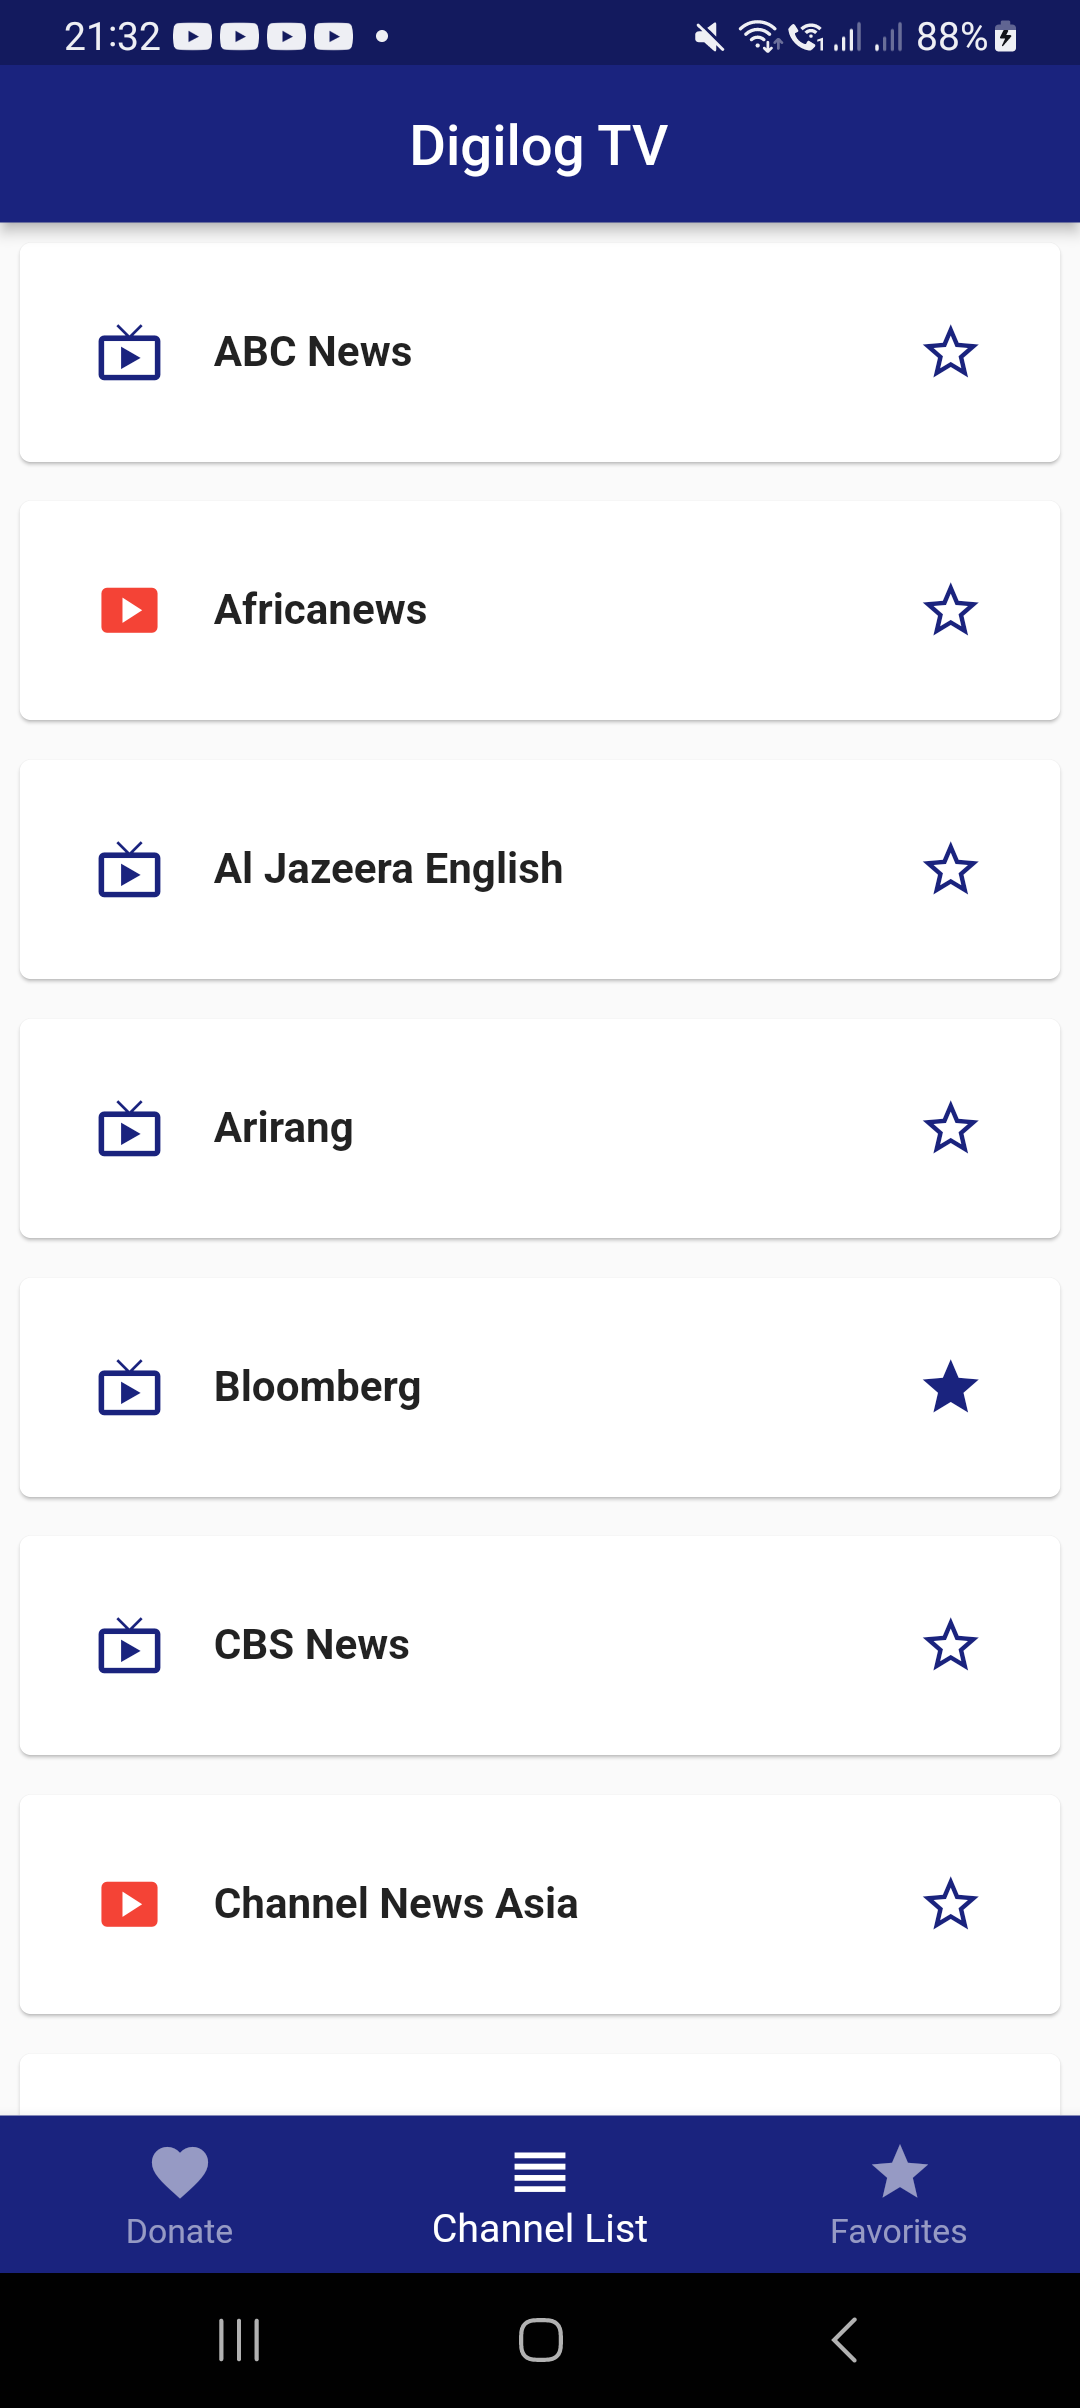
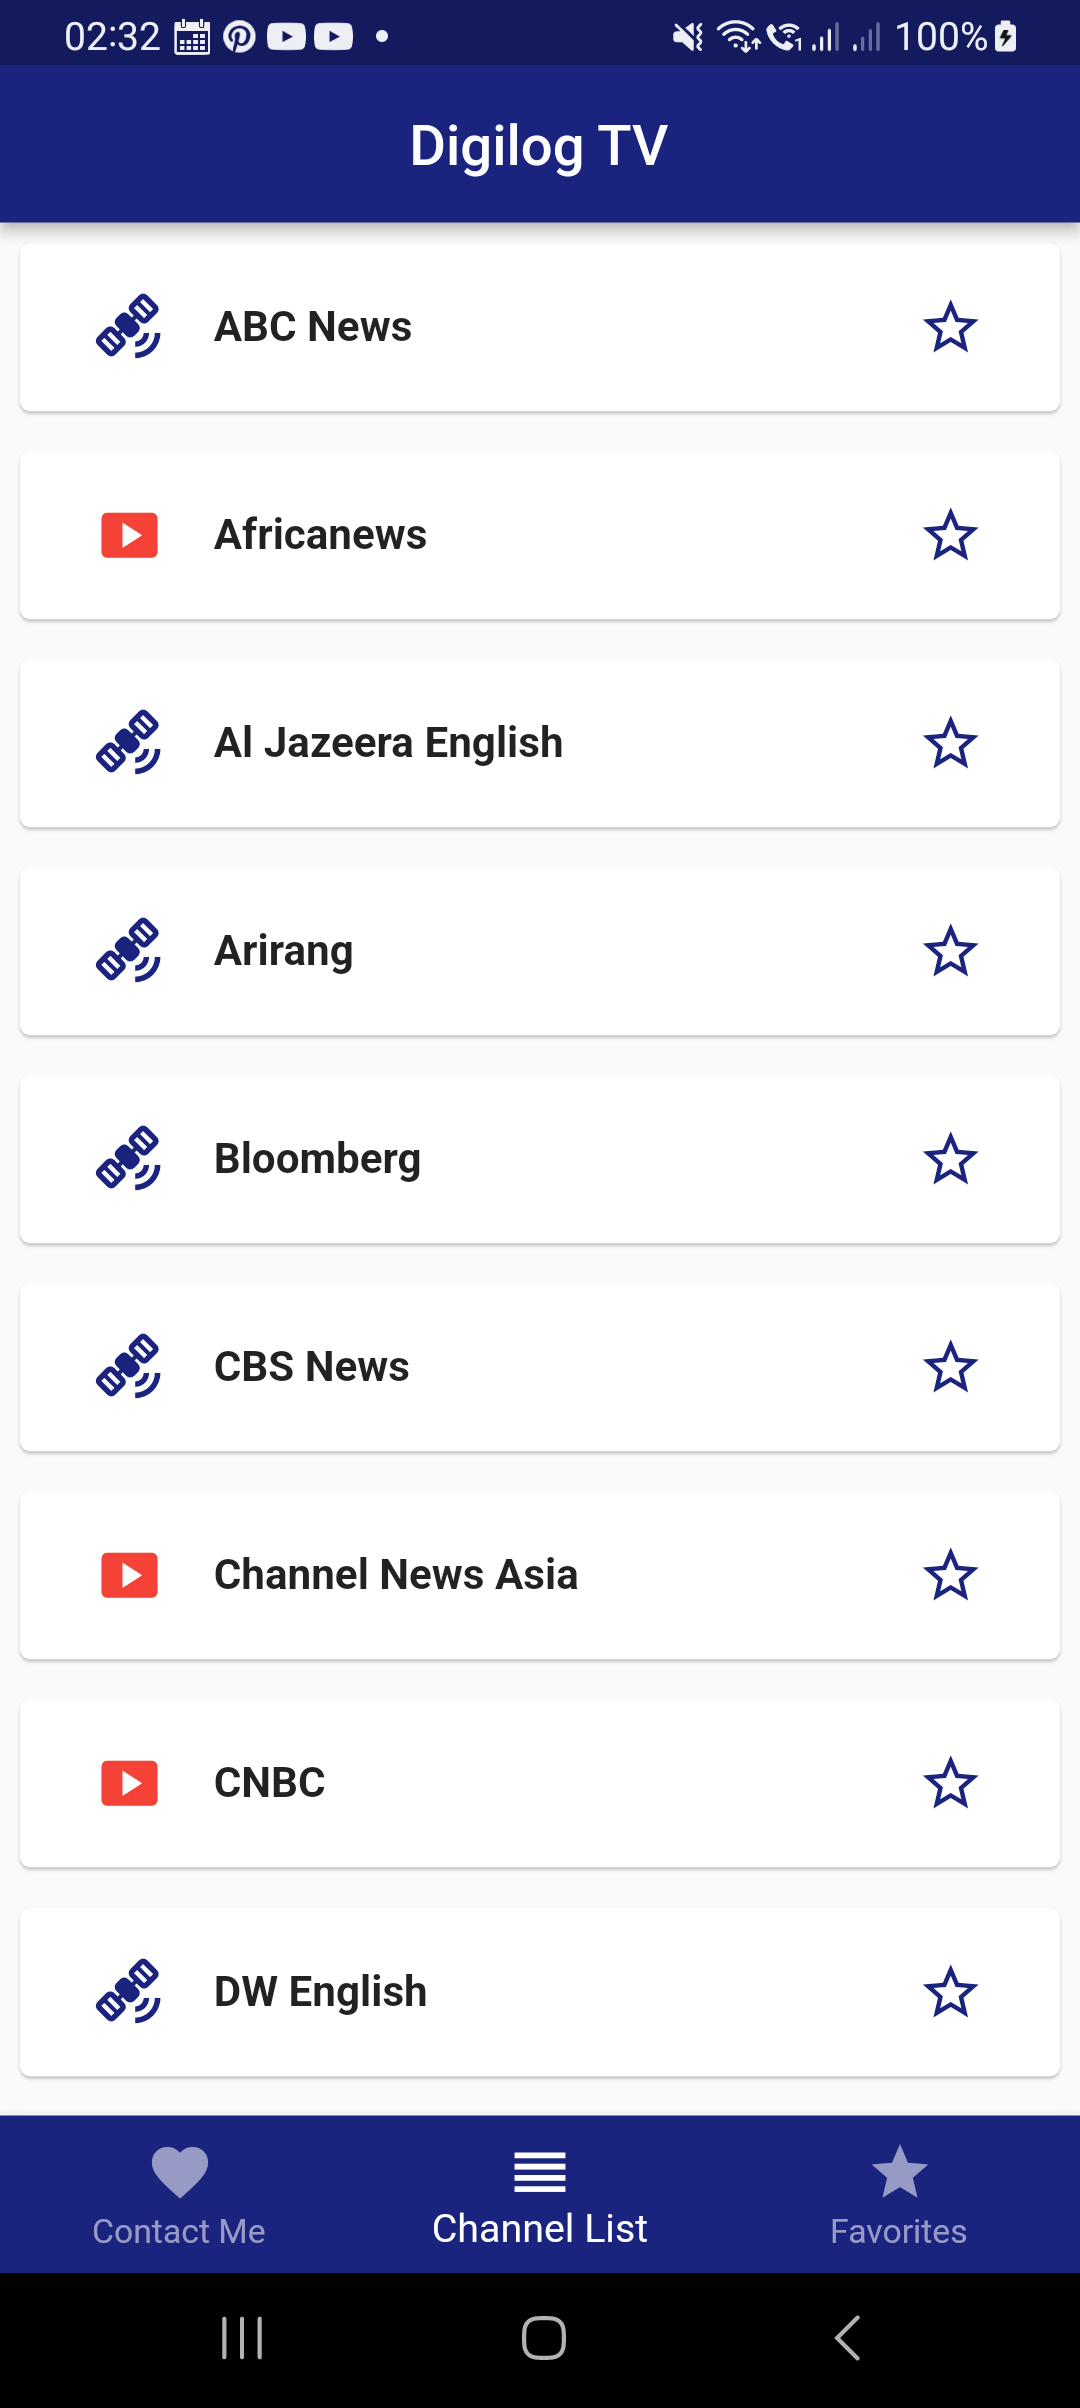
improved UI, added TV news websites to comply with Google Play requirements

diff --git a/lib/services/channels.dart b/lib/services/channels.dart
@@ -4,11 +4,12 @@ enum Source {
 }
 
 class Channel {
-  Channel({required this.channelName, required this.link, required this.source});
+  Channel({required this.channelName, required this.link, required this.source, required this.contactpage});
 
   String channelName;
   String link;
   Source source;
+  String contactpage;
 
   String getChannelName() {
     return channelName;
@@ -39,24 +40,24 @@ class Channels {
   }
 
   List<Channel> channelList = [
-    Channel(channelName: "ABC News", link: "https://abc-iview-mediapackagestreams-2.akamaized.net/out/v1/6e1cc6d25ec0480ea099a5399d73bc4b/index.m3u8", source: Source.iptv),
-    Channel(channelName: "Africanews", link: "https://www.youtube.com/embed/NQjabLGdP5g?autoplay=1", source: Source.youtube),
-    Channel(channelName: "Al Jazeera English", link: "https://live-hls-web-aje.getaj.net/AJE/index.m3u8", source: Source.iptv),
-    Channel(channelName: "Arirang", link: "http://amdlive.ctnd.com.edgesuite.net/arirang_1ch/smil:arirang_1ch.smil/playlist.m3u8", source: Source.iptv),
-    Channel(channelName: "Bloomberg", link: "https://bloomberg.com/media-manifest/streams/us.m3u8", source: Source.iptv),
-    Channel(channelName: "CBS News", link: "https://cbsnews.akamaized.net/hls/live/2020607/cbsnlineup_8/master.m3u8", source: Source.iptv),
-    Channel(channelName: "Channel News Asia", link: "https://www.youtube.com/embed/XWq5kBlakcQ?autoplay=1", source: Source.youtube),
-    Channel(channelName: "CNBC", link: "https://www.youtube.com/embed/9NyxcX3rhQs?autoplay=1", source: Source.youtube),
-    Channel(channelName: "DW English", link: "https://dwamdstream102.akamaized.net/hls/live/2015525/dwstream102/index.m3u8", source: Source.iptv),
-    Channel(channelName: "Euronews", link: "https://www.youtube.com/embed/pykpO5kQJ98?autoplay=1", source: Source.youtube),
-    Channel(channelName: "France 24 English", link: "https://www.youtube.com/embed/h3MuIUNCCzI?autoplay=1", source: Source.youtube),
-    Channel(channelName: "Global News", link: "https://i.mjh.nz/PlutoTV/62cbef9ebb857100072fc187-alt.m3u8", source: Source.iptv),
-    Channel(channelName: "Newsmax TV", link: "https://nmxlive.akamaized.net/hls/live/529965/Live_1/index.m3u8", source: Source.iptv),
-    Channel(channelName: "NHK World Japan", link: "https://nhkwlive-ojp.akamaized.net/hls/live/2003459/nhkwlive-ojp-en/index_4M.m3u8", source: Source.iptv),
-    Channel(channelName: "PBS America", link: "https://pbs-samsunguk.amagi.tv/playlist.m3u8", source: Source.iptv),
-    Channel(channelName: "Press TV", link: "https://cdnlive.presstv.ir/cdnlive/smil:cdnlive.smil/playlist.m3u8", source: Source.iptv),
-    Channel(channelName: "Reuters TV", link: "https://reuters-reutersnow-1-eu.rakuten.wurl.tv/playlist.m3u8", source: Source.iptv),
-    Channel(channelName: "Sky News", link: "https://i.mjh.nz/PlutoTV/55b285cd2665de274553d66f-alt.m3u8", source: Source.iptv),
-    Channel(channelName: "TRT World", link: "https://tv-trtworld.medya.trt.com.tr/master.m3u8", source: Source.iptv),
+    Channel(channelName: "ABC News", link: "https://abc-iview-mediapackagestreams-2.akamaized.net/out/v1/6e1cc6d25ec0480ea099a5399d73bc4b/index.m3u8", source: Source.iptv, contactpage: 'https://abcnews.go.com/Contact'),
+    Channel(channelName: "Africanews", link: "https://www.youtube.com/embed/NQjabLGdP5g?autoplay=1", source: Source.youtube, contactpage: 'https://www.africanews.com/page/contact/'),
+    Channel(channelName: "Al Jazeera English", link: "https://live-hls-web-aje.getaj.net/AJE/index.m3u8", source: Source.iptv, contactpage: 'https://network.aljazeera.net/en/contact'),
+    Channel(channelName: "Arirang", link: "http://amdlive.ctnd.com.edgesuite.net/arirang_1ch/smil:arirang_1ch.smil/playlist.m3u8", source: Source.iptv, contactpage: 'https://www.arirang.com/'),
+    Channel(channelName: "Bloomberg", link: "https://bloomberg.com/media-manifest/streams/us.m3u8", source: Source.iptv, contactpage: 'https://www.bloomberg.com/professional/support/'),
+    Channel(channelName: "CBS News", link: "https://cbsnews.akamaized.net/hls/live/2020607/cbsnlineup_8/master.m3u8", source: Source.iptv, contactpage: 'https://www.cbs.com/showfeedback/'),
+    Channel(channelName: "Channel News Asia", link: "https://www.youtube.com/embed/XWq5kBlakcQ?autoplay=1", source: Source.youtube, contactpage: 'https://www.channelnewsasia.com/contact-us'),
+    Channel(channelName: "CNBC", link: "https://www.youtube.com/embed/9NyxcX3rhQs?autoplay=1", source: Source.youtube, contactpage: 'https://help.cnbc.com/contact/'),
+    Channel(channelName: "DW English", link: "https://dwamdstream102.akamaized.net/hls/live/2015525/dwstream102/index.m3u8", source: Source.iptv, contactpage: 'https://corporate.dw.com/en/contact/s-30606'),
+    Channel(channelName: "Euronews", link: "https://www.youtube.com/embed/pykpO5kQJ98?autoplay=1", source: Source.youtube, contactpage: 'https://www.euronews.com/contact'),
+    Channel(channelName: "France 24 English", link: "https://www.youtube.com/embed/h3MuIUNCCzI?autoplay=1", source: Source.youtube, contactpage: 'https://www.francemediasmonde.com/en/contact'),
+    Channel(channelName: "Global News", link: "https://i.mjh.nz/PlutoTV/62cbef9ebb857100072fc187-alt.m3u8", source: Source.iptv, contactpage: 'https://globalnews.ca/pages/contact-us/'),
+    Channel(channelName: "Newsmax TV", link: "https://nmxlive.akamaized.net/hls/live/529965/Live_1/index.m3u8", source: Source.iptv, contactpage: 'https://www.newsmax.com/contact/'),
+    Channel(channelName: "NHK World Japan", link: "https://nhkwlive-ojp.akamaized.net/hls/live/2003459/nhkwlive-ojp-en/index_4M.m3u8", source: Source.iptv, contactpage: 'https://www3.nhk.or.jp/nhkworld/en/contact/'),
+    Channel(channelName: "PBS America", link: "https://pbs-samsunguk.amagi.tv/playlist.m3u8", source: Source.iptv, contactpage: 'https://www.pbsamerica.co.uk/contact/'),
+    Channel(channelName: "Press TV", link: "https://cdnlive.presstv.ir/cdnlive/smil:cdnlive.smil/playlist.m3u8", source: Source.iptv, contactpage: 'https://www.presstv.ir/aboutus/contactus'),
+    Channel(channelName: "Reuters TV", link: "https://reuters-reutersnow-1-eu.rakuten.wurl.tv/playlist.m3u8", source: Source.iptv, contactpage: 'https://www.reuters.com/info-pages/contact-us/'),
+    Channel(channelName: "Sky News", link: "https://i.mjh.nz/PlutoTV/55b285cd2665de274553d66f-alt.m3u8", source: Source.iptv, contactpage: 'https://news.sky.com/info/contact-us'),
+    Channel(channelName: "TRT World", link: "https://tv-trtworld.medya.trt.com.tr/master.m3u8", source: Source.iptv, contactpage: 'https://www.trtworld.com/contact'),
   ];
 }

diff --git a/lib/pages/home pages/contactpage.dart b/lib/pages/home pages/contactpage.dart
@@ -1,0 +1,123 @@
+import 'package:flutter/material.dart';
+import 'package:flutter/services.dart';
+
+class ContactPage extends StatelessWidget {
+  const ContactPage({super.key});
+
+  copyBitcoinAddress(BuildContext context) {
+    Clipboard.setData(const ClipboardData(
+        text: 'bc1qruus6vnxrww6pqac3hvg6vsepmqv8d66dwjm59'));
+    ScaffoldMessenger.of(context).showSnackBar(const SnackBar(
+      content: Text("Bitcoin Address copied to clipboard."),
+      duration: Duration(seconds: 2),
+    ));
+  }
+
+  copyMoneroAddress(BuildContext context) {
+    Clipboard.setData(const ClipboardData(
+        text:
[1 lines of base64/hex data omitted]
+    ScaffoldMessenger.of(context).showSnackBar(const SnackBar(
+      content: Text("Monero Address copied to clipboard."),
+      duration: Duration(seconds: 2),
+    ));
+  }
+
+  @override
+  Widget build(BuildContext context) {
+    return SingleChildScrollView(
+      child: Column(
+        crossAxisAlignment: CrossAxisAlignment.stretch,
+        children: [
+          const Padding(
+            padding: EdgeInsets.fromLTRB(18.0, 36.0, 18.0, 18.0),
+            child: Text(
+              'You can reach me at aldrinzigmund@tutamail.com',
+              style: TextStyle(fontSize: 18.0, fontWeight: FontWeight.bold),
+              textAlign: TextAlign.center,
+            ),
+          ),
+          const Padding(
+            padding: EdgeInsets.all(18.0),
+            child: Text(
+              'Due to the added workload of maintaining this app on the Google Play Store – where they recently required me to include the websites of each TV news channel, although I personally think it\'s not necessary as I trust my users\' ability to distinguish quality news from bad ones, and find the contact information of these TV news networks easily via a simple web search – and the rejection of my recent app update that was intended to promptly resolve a screen timeout issue during video playback till I comply with the said requirement, I\'m now considering the possibility of introducing ads for users who download my app from Google Play as a means of compensating for my efforts in enhancing the overall user experience.',
+              style: TextStyle(fontSize: 18.0),
+              textAlign: TextAlign.center,
+            ),
+          ),
+          SizedBox(
+            height: (MediaQuery.of(context).size.height -
+                kBottomNavigationBarHeight -
+                AppBar().preferredSize.height),
+            child: Column(
+              mainAxisAlignment: MainAxisAlignment.center,
+              children: [
+                const Padding(
+                    padding: EdgeInsets.fromLTRB(9.0, 27.0, 9.0, 18.0),
+                    child: Text(
+                      'Donate Bitcoin to Help Me Maintain this App',
+                      style: TextStyle(fontSize: 27.0),
+                      textAlign: TextAlign.center,
+                    )),
+                Padding(
+                    padding: const EdgeInsets.symmetric(
+                        horizontal: 9.0, vertical: 18.0),
+                    child: GestureDetector(
+                      onTap: () => copyBitcoinAddress(context),
+                      child: Image.asset(
+                        'assets/images/bitcoin.png',
+                        height: 300.0,
+                        width: 300.0,
+                        fit: BoxFit.contain,
+                      ),
+                    )),
+                const Padding(
+                    padding: EdgeInsets.all(18.0),
+                    child: Text(
+                      'Tap the QR Code to Copy the Bitcoin Address to your Clipboard',
+                      style: TextStyle(fontSize: 15.0),
+                      textAlign: TextAlign.center,
+                    )),
+              ],
+            ),
+          ),
+          SizedBox(
+            height: (MediaQuery.of(context).size.height -
+                kBottomNavigationBarHeight -
+                AppBar().preferredSize.height),
+            child: Column(
+              mainAxisAlignment: MainAxisAlignment.center,
+              children: [
+                const Padding(
+                    padding: EdgeInsets.fromLTRB(9.0, 27.0, 9.0, 18.0),
+                    child: Text(
+                      'Donate Monero to Help Me Maintain this App',
+                      style: TextStyle(fontSize: 27.0),
+                      textAlign: TextAlign.center,
+                    )),
+                Padding(
+                    padding: const EdgeInsets.all(9.0),
+                    child: GestureDetector(
+                      onTap: () => copyMoneroAddress(context),
+                      child: Image.asset(
+                        'assets/images/monero.png',
+                        height: 300.0,
+                        width: 300.0,
+                        fit: BoxFit.contain,
+                      ),
+                    )),
+                const Padding(
+                    padding: EdgeInsets.all(18.0),
+                    child: Text(
+                      'Tap the QR Codes to Copy the Monero Address to your Clipboard',
+                      style: TextStyle(fontSize: 15.0),
+                      textAlign: TextAlign.center,
+                    )),
+              ],
+            ),
+          ),
+        ],
+      ),
+    );
+  }
+}

diff --git a/lib/services/storage.g.dart b/lib/services/storage.g.dart
@@ -9,6 +9,22 @@ part of 'storage.dart';
 // ignore_for_file: non_constant_identifier_names, unnecessary_brace_in_string_interps, unnecessary_lambdas, prefer_expression_function_bodies, lines_longer_than_80_chars, avoid_as, avoid_annotating_with_dynamic, no_leading_underscores_for_local_identifiers
 
 mixin _$StorageProvider on _StorageProvider, Store {
+  late final _$arrangedChannelListAtom =
+      Atom(name: '_StorageProvider.arrangedChannelList', context: context);
+
+  @override
+  List<Channel> get arrangedChannelList {
+    _$arrangedChannelListAtom.reportRead();
+    return super.arrangedChannelList;
+  }
+
+  @override
+  set arrangedChannelList(List<Channel> value) {
+    _$arrangedChannelListAtom.reportWrite(value, super.arrangedChannelList, () {
+      super.arrangedChannelList = value;
+    });
+  }
+
   late final _$favoritedChannelsAtom =
       Atom(name: '_StorageProvider.favoritedChannels', context: context);
 
@@ -33,9 +49,32 @@ mixin _$StorageProvider on _StorageProvider, Store {
     return _$initializeAsyncAction.run(() => super.initialize());
   }
 
+  late final _$saveChangesAsyncAction =
+      AsyncAction('_StorageProvider.saveChanges', context: context);
+
+  @override
+  Future saveChanges() {
+    return _$saveChangesAsyncAction.run(() => super.saveChanges());
+  }
+
+  late final _$_StorageProviderActionController =
+      ActionController(name: '_StorageProvider', context: context);
+
+  @override
+  dynamic initializeFavorites() {
+    final _$actionInfo = _$_StorageProviderActionController.startAction(
+        name: '_StorageProvider.initializeFavorites');
+    try {
+      return super.initializeFavorites();
+    } finally {
+      _$_StorageProviderActionController.endAction(_$actionInfo);
+    }
+  }
+
   @override
   String toString() {
     return '''
+arrangedChannelList: ${arrangedChannelList},
 favoritedChannels: ${favoritedChannels}
     ''';
   }

diff --git a/lib/pages/homepage.dart b/lib/pages/homepage.dart
@@ -4,7 +4,7 @@ import 'package:flutter/material.dart';
 import 'package:digilogtv/services/storage.dart';
 import 'package:digilogtv/pages/home pages/channellistpage.dart';
 import 'package:digilogtv/pages/home pages/favoritespage.dart';
-import 'package:digilogtv/pages/home pages/donationpage.dart';
+import 'package:digilogtv/pages/home%20pages/contactpage.dart';
 
 class HomePage extends StatefulWidget {
   const HomePage({super.key, required this.storage, required this.formattingProvider,});
@@ -36,7 +36,7 @@ class _HomePageState extends State<HomePage> {
   void initState() {
     super.initState();
     _pages = <Widget>[
-      const DonationPage(),
+      const ContactPage(),
       ChannelListPage(storage: storage, formattingProvider: formattingProvider,),
       FavoritesPage(storage: storage, formattingProvider: formattingProvider,),
     ];
@@ -61,7 +61,7 @@ class _HomePageState extends State<HomePage> {
           items: const [
             BottomNavigationBarItem(
               icon: Icon(Icons.favorite),
-              label: 'Donate',
+              label: 'Contact Me',
             ),
             BottomNavigationBarItem(
               icon: Icon(Icons.reorder),

diff --git a/lib/pages/channelpage-iptv.dart b/lib/pages/channelpage-iptv.dart
@@ -93,11 +93,11 @@ class _ChannelPageIPTVState extends State<ChannelPageIPTV> {
         ),
         bottomNavigationBar:
             (MediaQuery.of(context).orientation == Orientation.portrait)
-                ? const Padding(
-                    padding: EdgeInsets.all(27.0),
+                ? Padding(
+                    padding: const EdgeInsets.all(27.0),
                     child: Text(
-                      'Tap the video for full screen viewing', textAlign: TextAlign.center,
-                      style: TextStyle(color: Colors.white),
+                      'Tap the video for full screen viewing. \n \n To get in touch with this news channel, visit their website at: ${storage.channels.channelList[index].contactpage}', textAlign: TextAlign.center,
+                      style: const TextStyle(color: Colors.white),
                     ),
                   )
                 : null);

diff --git a/lib/pages/home pages/favoritespage.dart b/lib/pages/home pages/favoritespage.dart
@@ -84,8 +84,7 @@ class _FavoritesPageState extends State<FavoritesPage> {
                         onTap: () => goToChannel(index),
                         child: Card(
                             child: Padding(
-                          padding: const EdgeInsets.symmetric(
-                              vertical: 27.0, horizontal: 18.0),
+                          padding: const EdgeInsets.all(18.0),
                           child: Row(
                             children: [
                               Padding(

diff --git a/lib/pages/home pages/channellistpage.dart b/lib/pages/home pages/channellistpage.dart
@@ -89,7 +89,7 @@ class _ChannelListPageState extends State<ChannelListPage> {
                   child: Card(
                       child: Padding(
                     padding:
-                        const EdgeInsets.symmetric(vertical: 27.0, horizontal: 18.0),
+                        const EdgeInsets.all(18.0),
                     child: Row(
                       children: [
                         Padding(

diff --git a/lib/services/formatting.dart b/lib/services/formatting.dart
@@ -11,7 +11,7 @@ abstract class _FormattingProvider with Store {
   @action
   formatIcon(Source source) {
     if (source == Source.iptv) {
-      return Icon(Icons.live_tv, color: Colors.indigo[900],);
+      return Icon(Icons.satellite_alt, color: Colors.indigo[900],);
     } else {
       return const Icon(Icons.smart_display, color: Colors.red,);
     }
